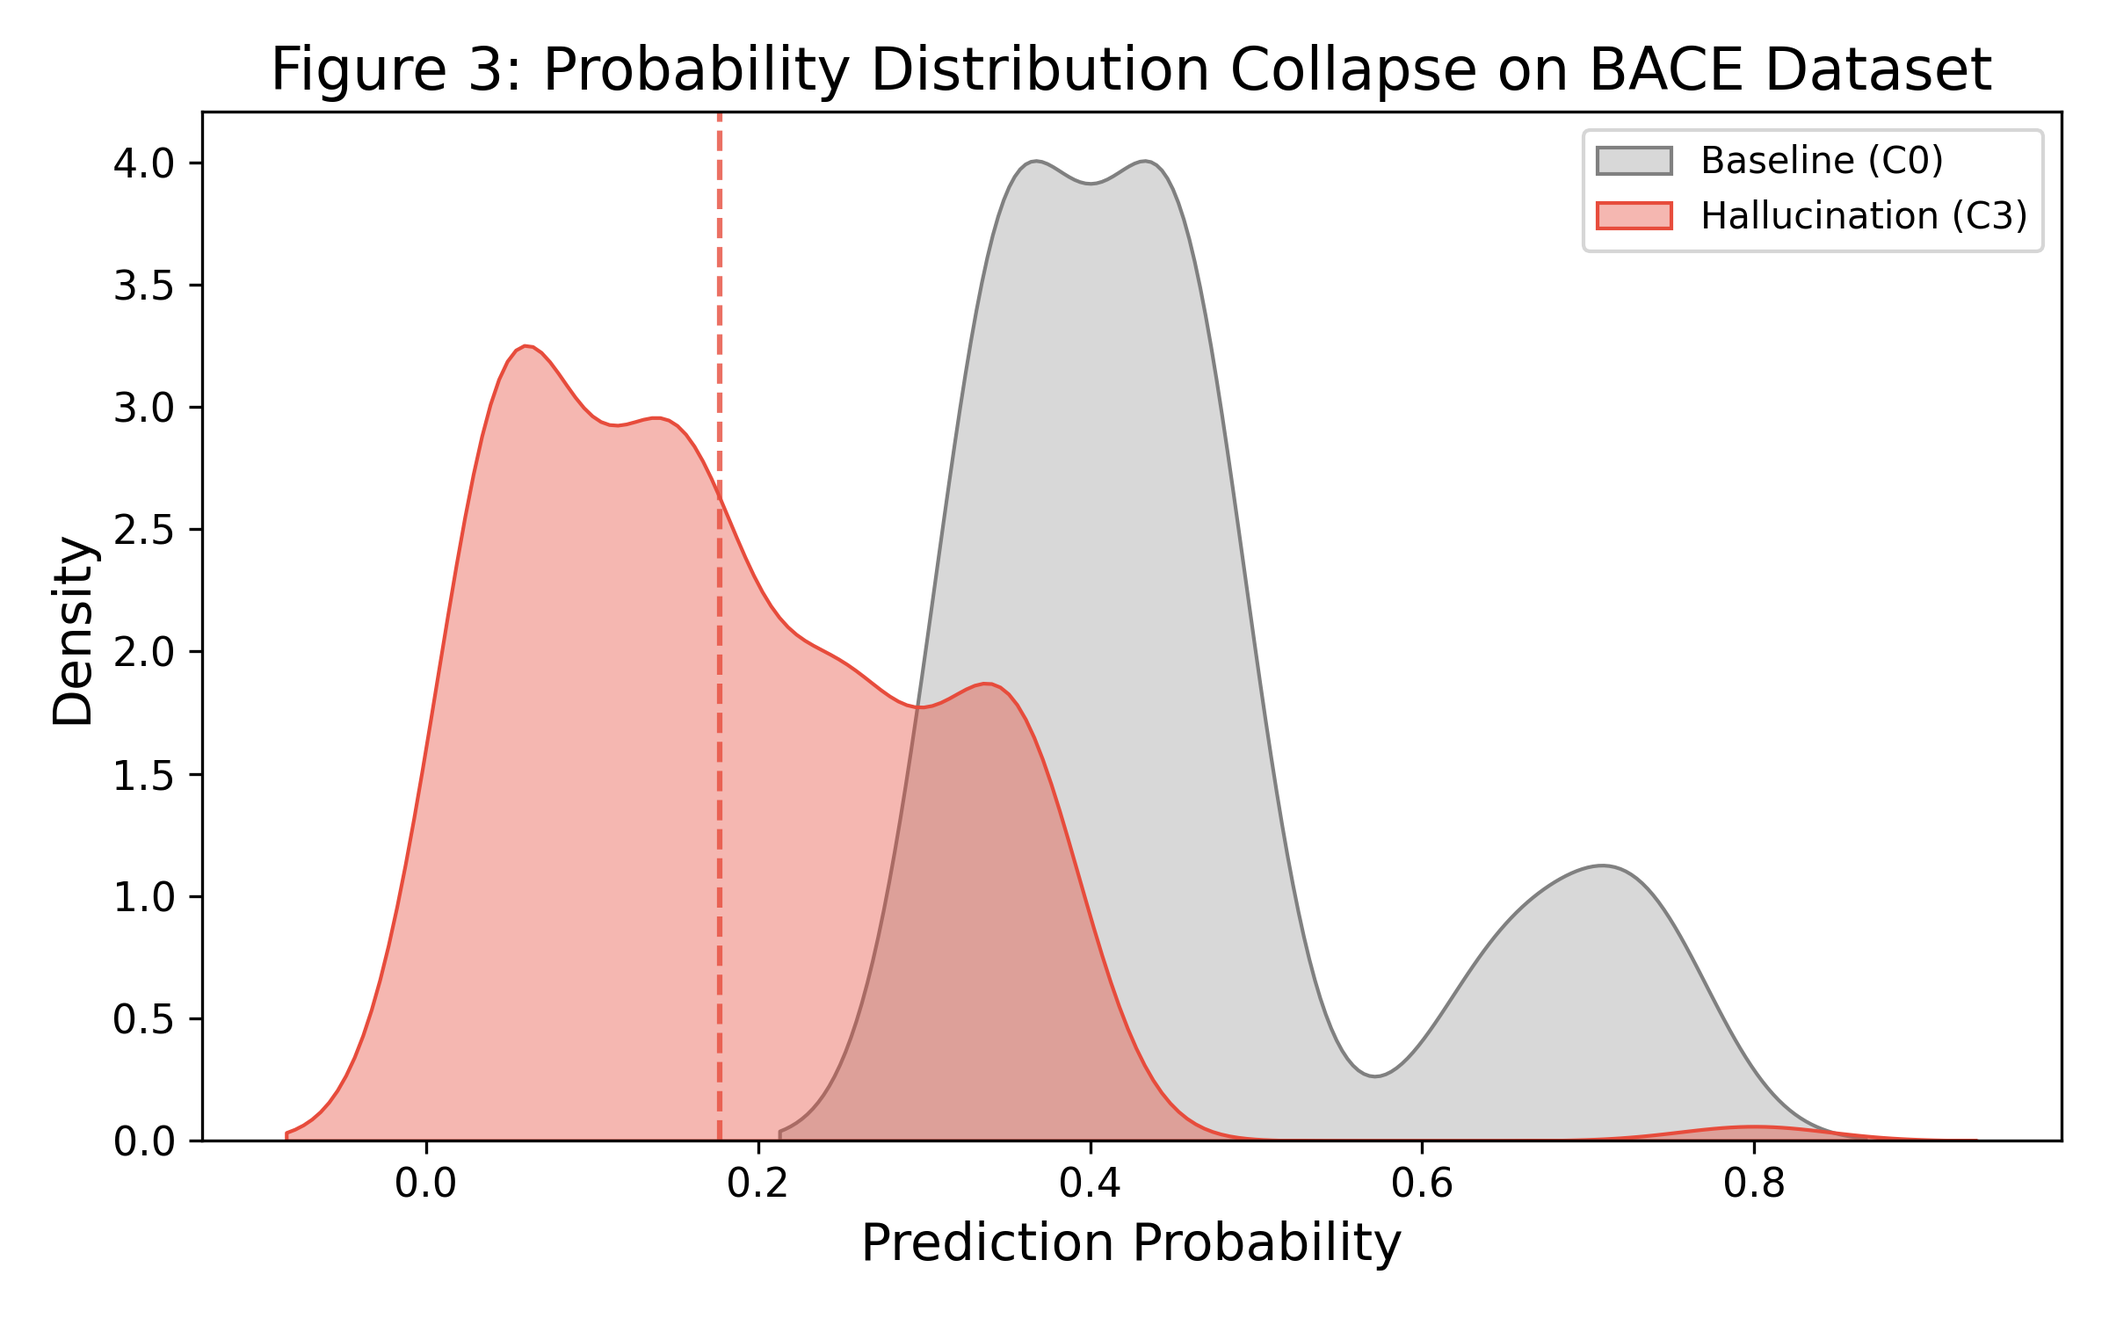
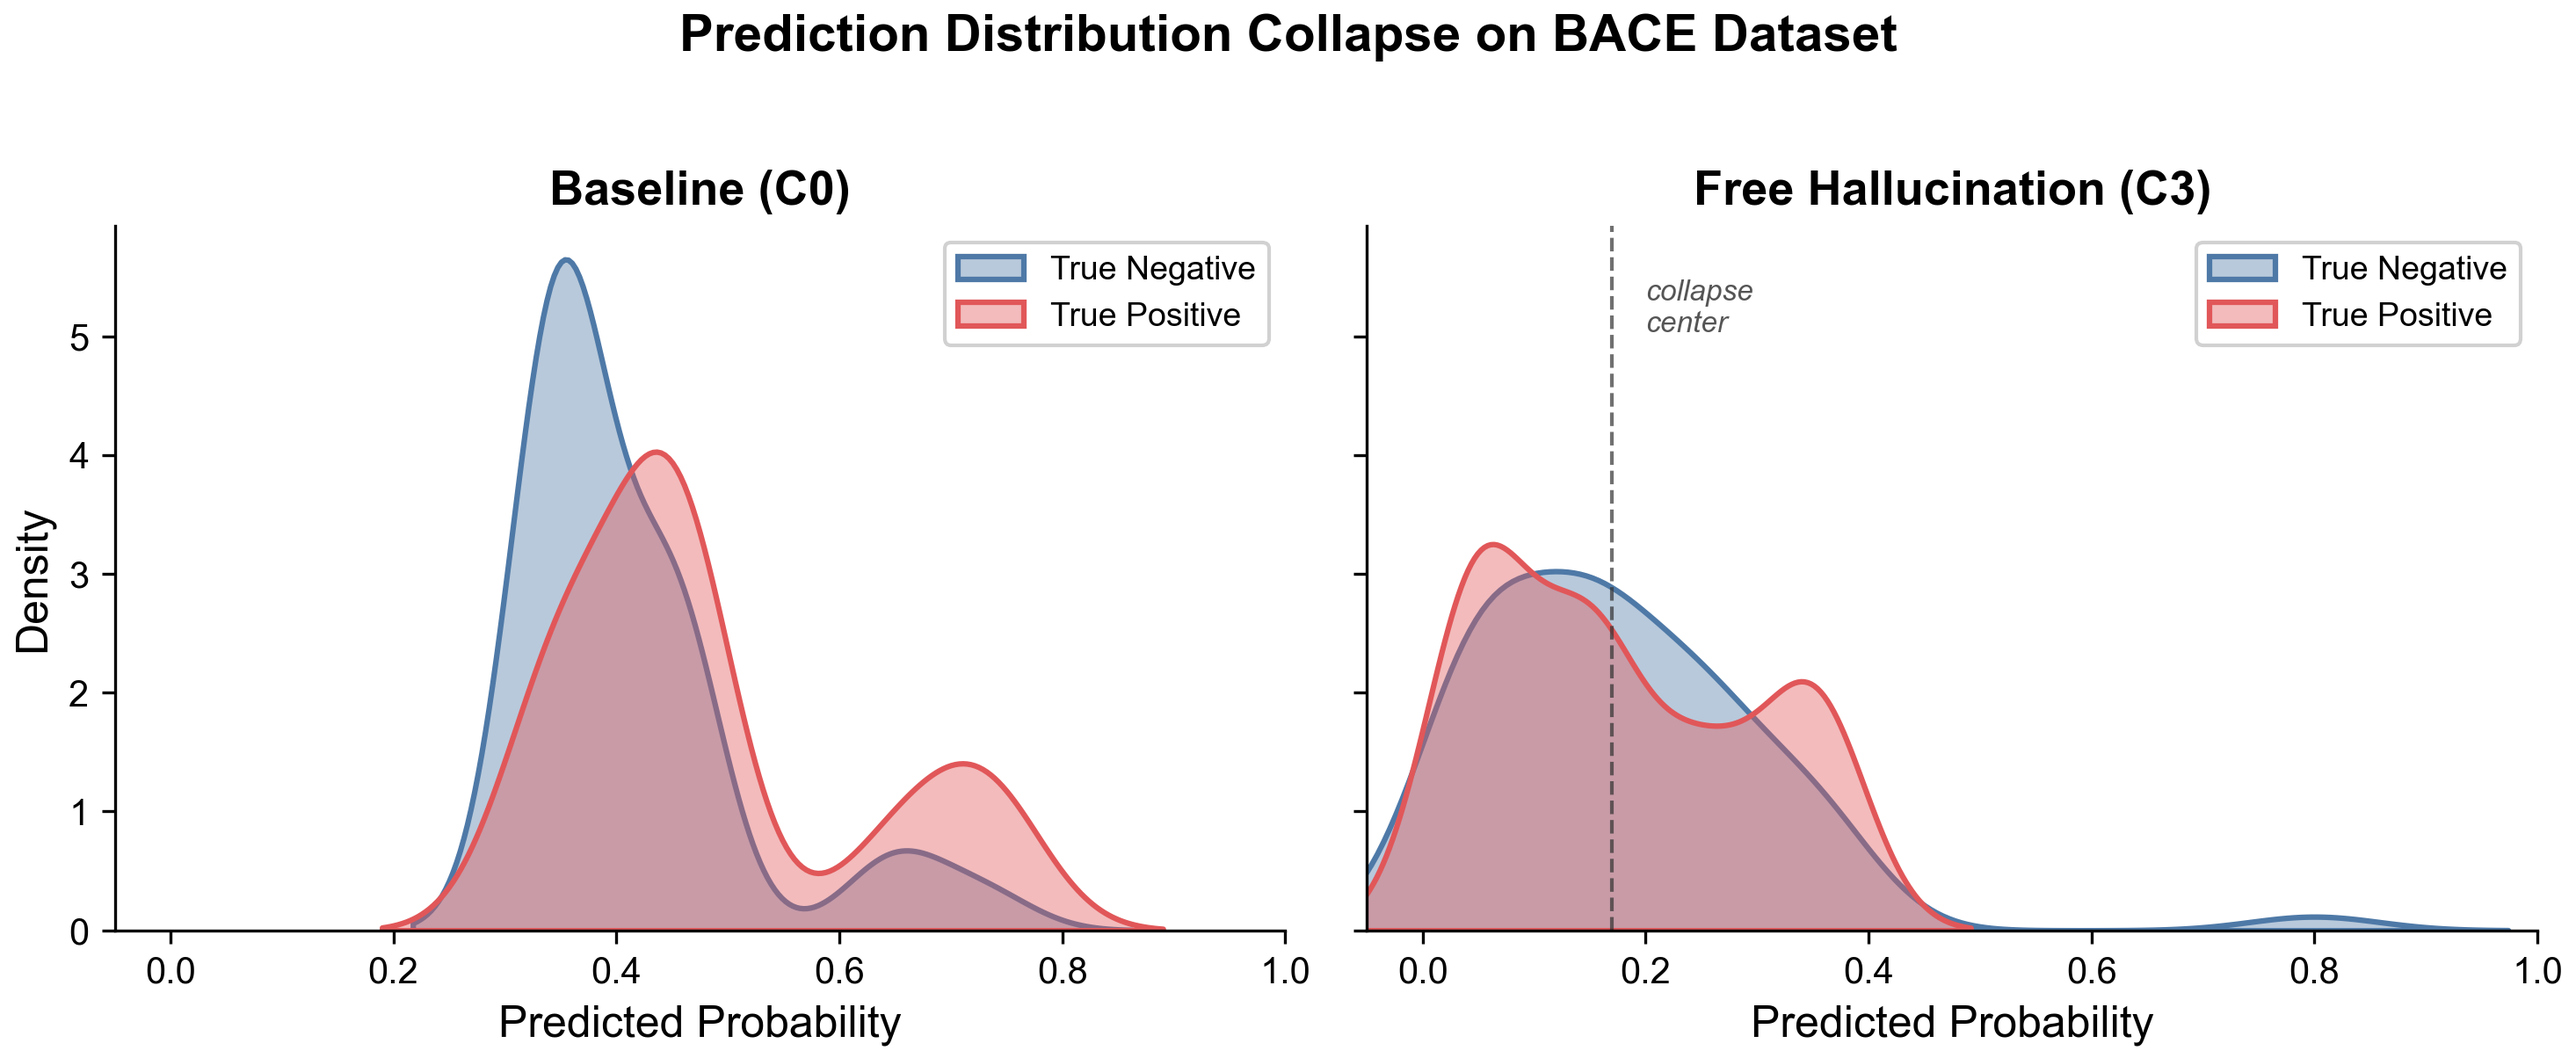
feat: publication-grade figures with Q1 design system — horizontal bars, bootstrap CIs, semantic colors, dual-panel collapse, no pie charts

diff --git a/src/publication_figures.py b/src/publication_figures.py
@@ -1,0 +1,365 @@
+"""
+Publication-grade figure generator for Q1 journal submission.
+Design principles:
+  - Consistent color palette with semantic grouping
+  - Human-readable labels (no code names)
+  - Clean typography (no default matplotlib fonts)
+  - Despined axes, minimal chartjunk
+  - 300 DPI, tight bounding boxes
+  - Horizontal bar chart for Figure 1 (easier to read condition names)
+  - Bar chart replaces pie chart for Figure 2 (pie charts are unprofessional)
+"""
+
+import pandas as pd
+import numpy as np
+import matplotlib.pyplot as plt
+import matplotlib.ticker as mticker
+import seaborn as sns
+import os
+import json
+from sklearn.metrics import roc_auc_score
+from pathlib import Path
+
+# ============================================================
+# DESIGN SYSTEM
+# ============================================================
+
+# Use a professional serif-compatible font
+plt.rcParams.update({
+    'font.family': 'sans-serif',
+    'font.sans-serif': ['Arial', 'Helvetica', 'DejaVu Sans'],
+    'font.size': 11,
+    'axes.titlesize': 13,
+    'axes.labelsize': 12,
+    'xtick.labelsize': 10,
+    'ytick.labelsize': 10,
+    'legend.fontsize': 10,
+    'figure.dpi': 300,
+    'savefig.dpi': 300,
+    'savefig.bbox': 'tight',
+    'savefig.pad_inches': 0.05,
+    'axes.spines.top': False,
+    'axes.spines.right': False,
+    'axes.linewidth': 0.8,
+    'xtick.major.width': 0.8,
+    'ytick.major.width': 0.8,
+})
+
+# Semantic color palette — grouped by condition type
+COLORS = {
+    # Baselines (cool grays)
+    'C0': '#8c8c8c',
+    'C1': '#b0b0b0',
+    # Stylistic controls (blues)
+    'C2': '#4e79a7',
+    'C2b': '#76b7b2',
+    # Hallucinations (warm reds/oranges — the "interesting" conditions)
+    'C3': '#f28e2b',
+    'C4a': '#e15759',
+    'C4b': '#ff9d9a',
+    'C4c': '#d4723c',
+    # Semantic control (dark)
+    'C5': '#59a14f',
+}
+
+# Human-readable labels
+LABELS = {
+    'C0_pure': 'C0: Baseline\n(SMILES only)',
+    'C1_factual': 'C1: Factual\n(RDKit)',
+    'C2_chempriming': 'C2: Chem.\nPriming',
+    'C2b_pure_gibberish': 'C2b: Pure\nGibberish',
+    'C3_hallu_free': 'C3: Free\nHallucination',
+    'C4a_hallu_sp': 'C4a: Structural\nPhantom',
+    'C4b_hallu_pi': 'C4b: Property\nInversion',
+    'C4c_hallu_mf': 'C4c: Mechanism\nFabrication',
+    'C5_shuffled': 'C5: Shuffled\n(Semantic Ctrl)',
+}
+
+SHORT_LABELS = {
+    'C0_pure': 'C0',
+    'C1_factual': 'C1',
+    'C2_chempriming': 'C2',
+    'C2b_pure_gibberish': 'C2b',
+    'C3_hallu_free': 'C3',
+    'C4a_hallu_sp': 'C4a',
+    'C4b_hallu_pi': 'C4b',
+    'C4c_hallu_mf': 'C4c',
+    'C5_shuffled': 'C5',
+}
+
+COLOR_LIST = [COLORS['C0'], COLORS['C1'], COLORS['C2'], COLORS['C2b'],
+              COLORS['C3'], COLORS['C4a'], COLORS['C4b'], COLORS['C4c'], COLORS['C5']]
+
+CONDITIONS = ['C0_pure', 'C1_factual', 'C2_chempriming', 'C2b_pure_gibberish',
+              'C3_hallu_free', 'C4a_hallu_sp', 'C4b_hallu_pi', 'C4c_hallu_mf', 'C5_shuffled']
+
+OUT_DIR = Path('hallucination-paper-overleaf/figures')
+
+def load_data(checkpoint_file: str):
+    with open(checkpoint_file, 'r') as f:
+        ckpt = json.load(f)
+    results_list = [ckpt["results"][str(i)] for i in range(ckpt["metadata"]["total_molecules"])]
+    return pd.DataFrame(results_list)
+
+
+# ============================================================
+# FIGURE 1: Performance Comparison (Horizontal Bar + CI)
+# ============================================================
+def figure1_performance(df):
+    """Horizontal bar chart with bootstrap 95% CI error bars."""
+    labels_arr = np.array(df['label'])
+    
+    aucs = []
+    ci_lowers = []
+    ci_uppers = []
+    rng = np.random.RandomState(42)
+    
+    for cond in CONDITIONS:
+        preds = np.array(df[cond])
+        auc = roc_auc_score(labels_arr, preds)
+        
+        # Bootstrap CI
+        boot_aucs = []
+        for _ in range(1000):
+            idx = rng.randint(0, len(labels_arr), len(labels_arr))
+            if len(np.unique(labels_arr[idx])) < 2:
+                continue
+            boot_aucs.append(roc_auc_score(labels_arr[idx], preds[idx]))
+        boot_aucs = np.array(boot_aucs)
+        
+        aucs.append(auc)
+        ci_lowers.append(auc - np.percentile(boot_aucs, 2.5))
+        ci_uppers.append(np.percentile(boot_aucs, 97.5) - auc)
+    
+    # Sort by AUC for visual clarity
+    order = np.argsort(aucs)
+    
+    fig, ax = plt.subplots(figsize=(7, 5))
+    
+    y_pos = np.arange(len(CONDITIONS))
+    sorted_aucs = [aucs[i] for i in order]
+    sorted_colors = [COLOR_LIST[i] for i in order]
+    sorted_labels = [LABELS[CONDITIONS[i]].replace('\n', ' ') for i in order]
+    sorted_ci = np.array([[ci_lowers[i] for i in order], [ci_uppers[i] for i in order]])
+    
+    bars = ax.barh(y_pos, sorted_aucs, xerr=sorted_ci, 
+                   color=sorted_colors, edgecolor='white', linewidth=0.5,
+                   error_kw={'linewidth': 1.0, 'capsize': 3, 'capthick': 1.0, 'color': '#333333'},
+                   height=0.7, zorder=3)
+    
+    # Baseline reference line
+    baseline_auc = aucs[0]  # C0
+    ax.axvline(x=baseline_auc, color='#555555', linestyle='--', linewidth=1.0, 
+               zorder=2, alpha=0.7, label=f'Baseline C0 ({baseline_auc:.3f})')
+    
+    # Chance level
+    ax.axvline(x=0.5, color='#cccccc', linestyle=':', linewidth=0.8, zorder=1)
+    ax.text(0.502, len(CONDITIONS) - 0.5, 'chance', fontsize=8, color='#999999', va='top')
+    
+    # Value annotations
+    for i, (bar, val) in enumerate(zip(bars, sorted_aucs)):
+        ax.text(val + 0.005, bar.get_y() + bar.get_height()/2, 
+                f'{val:.3f}', va='center', ha='left', fontsize=9, color='#333333')
+    
+    ax.set_yticks(y_pos)
+    ax.set_yticklabels(sorted_labels, fontsize=9)
+    ax.set_xlabel('ROC-AUC Score')
+    ax.set_xlim(0.45, 0.72)
+    ax.set_title('Performance Across Hallucination Conditions (BBBP)', pad=15, fontweight='bold')
+    ax.legend(loc='lower right', framealpha=0.9, edgecolor='#cccccc')
+    
+    # Light grid on x-axis only
+    ax.xaxis.grid(True, linestyle=':', alpha=0.3, zorder=0)
+    ax.set_axisbelow(True)
+    
+    plt.tight_layout()
+    fig.savefig(OUT_DIR / 'figure1_performance_comparison.png')
+    print("✓ Saved figure1_performance_comparison.png")
+    plt.close(fig)
+
+
+# ============================================================
+# FIGURE 2: Taxonomy Distribution (Horizontal Bar, NOT pie)
+# ============================================================
+def figure2_taxonomy(df):
+    """Horizontal bar chart showing taxonomy distribution."""
+    # Extract taxonomy from checkpoint data
+    tax_col = 'taxonomy_free'
+    if tax_col not in df.columns:
+        print("⚠ taxonomy_free column not found, skipping Figure 2")
+        return
+    
+    tax_types = df[tax_col].apply(lambda x: json.loads(x)['dominant_type'] if pd.notna(x) else 'Unknown')
+    tax_counts = tax_types.value_counts()
+    
+    # Define consistent ordering and colors for taxonomy
+    TAX_ORDER = ['CC', 'PI', 'MF', 'SP']
+    TAX_COLORS = {
+        'CC': '#4e79a7',   # Blue - most common
+        'PI': '#e15759',   # Red
+        'MF': '#f28e2b',   # Orange
+        'SP': '#edc948',   # Gold - rarest but most interesting
+    }
+    TAX_FULL = {
+        'CC': 'Contextual\nConfabulation',
+        'PI': 'Property\nInversion', 
+        'MF': 'Mechanism\nFabrication',
+        'SP': 'Structural\nPhantom',
+    }
+    
+    counts = [tax_counts.get(t, 0) for t in TAX_ORDER]
+    total = sum(counts)
+    pcts = [c / total * 100 for c in counts]
+    colors = [TAX_COLORS[t] for t in TAX_ORDER]
+    labels = [f'{TAX_FULL[t]}' for t in TAX_ORDER]
+    
+    fig, ax = plt.subplots(figsize=(6, 3.5))
+    
+    y_pos = np.arange(len(TAX_ORDER))
+    bars = ax.barh(y_pos, pcts, color=colors, edgecolor='white', linewidth=0.5, height=0.6, zorder=3)
+    
+    for i, (bar, pct, count) in enumerate(zip(bars, pcts, counts)):
+        ax.text(pct + 0.8, bar.get_y() + bar.get_height()/2, 
+                f'{pct:.1f}% (n={count})', va='center', ha='left', fontsize=10, color='#333333')
+    
+    ax.set_yticks(y_pos)
+    ax.set_yticklabels(labels, fontsize=10)
+    ax.set_xlabel('Proportion of C3 Hallucinations (%)')
+    ax.set_xlim(0, 100)
+    ax.set_title('Distribution of Hallucination Types\n(Naturally Generated, C3)', pad=15, fontweight='bold')
+    
+    ax.xaxis.grid(True, linestyle=':', alpha=0.3, zorder=0)
+    ax.set_axisbelow(True)
+    
+    plt.tight_layout()
+    fig.savefig(OUT_DIR / 'figure2_taxonomy_distribution.png')
+    print("✓ Saved figure2_taxonomy_distribution.png")
+    plt.close(fig)
+
+
+# ============================================================
+# FIGURE 3: Prediction Collapse (BACE) — Dual KDE
+# ============================================================
+def figure3_collapse(bace_checkpoint: str):
+    """KDE plot showing prediction distribution collapse on BACE."""
+    if not os.path.exists(bace_checkpoint):
+        print(f"⚠ {bace_checkpoint} not found, skipping Figure 3")
+        return
+    
+    df = load_data(bace_checkpoint)
+    
+    fig, axes = plt.subplots(1, 2, figsize=(10, 4), sharey=True)
+    
+    # Left panel: Baseline (C0) — bimodal
+    ax0 = axes[0]
+    c0_neg = df.loc[df['label'] == 0, 'C0_pure']
+    c0_pos = df.loc[df['label'] == 1, 'C0_pure']
+    
+    sns.kdeplot(c0_neg, ax=ax0, fill=True, color='#4e79a7', alpha=0.4, linewidth=1.5, label='True Negative')
+    sns.kdeplot(c0_pos, ax=ax0, fill=True, color='#e15759', alpha=0.4, linewidth=1.5, label='True Positive')
+    ax0.set_title('Baseline (C0)', fontweight='bold')
+    ax0.set_xlabel('Predicted Probability')
+    ax0.set_ylabel('Density')
+    ax0.legend(framealpha=0.9, edgecolor='#cccccc', fontsize=9)
+    ax0.set_xlim(-0.05, 1.0)
+    
+    # Right panel: Hallucination (C3) — collapsed
+    ax1 = axes[1]
+    c3_neg = df.loc[df['label'] == 0, 'C3_hallu_free']
+    c3_pos = df.loc[df['label'] == 1, 'C3_hallu_free']
+    
+    sns.kdeplot(c3_neg, ax=ax1, fill=True, color='#4e79a7', alpha=0.4, linewidth=1.5, label='True Negative')
+    sns.kdeplot(c3_pos, ax=ax1, fill=True, color='#e15759', alpha=0.4, linewidth=1.5, label='True Positive')
+    ax1.axvline(x=0.17, color='#333333', linestyle='--', linewidth=1.0, alpha=0.7)
+    ax1.text(0.20, ax1.get_ylim()[1] * 0.85 if ax1.get_ylim()[1] > 0 else 3.0, 
+             'collapse\ncenter', fontsize=8, color='#555555', style='italic')
+    ax1.set_title('Free Hallucination (C3)', fontweight='bold')
+    ax1.set_xlabel('Predicted Probability')
+    ax1.legend(framealpha=0.9, edgecolor='#cccccc', fontsize=9)
+    ax1.set_xlim(-0.05, 1.0)
+    
+    fig.suptitle('Prediction Distribution Collapse on BACE Dataset', 
+                 fontweight='bold', fontsize=14, y=1.02)
+    
+    plt.tight_layout()
+    fig.savefig(OUT_DIR / 'figure3_negativity_collapse.png')
+    print("✓ Saved figure3_negativity_collapse.png")
+    plt.close(fig)
+
+
+# ============================================================
+# FIGURE 4: Bootstrap Stability (Violin + Strip)
+# ============================================================
+def figure4_bootstrap(df):
+    """Violin plot with strip overlay showing bootstrap AUC distributions."""
+    labels_arr = np.array(df['label'])
+    rng = np.random.RandomState(42)
+    
+    bootstrap_data = []
+    for _ in range(1000):
+        idx = rng.randint(0, len(labels_arr), len(labels_arr))
+        if len(np.unique(labels_arr[idx])) < 2:
+            continue
+        for cond in CONDITIONS:
+            preds = np.array(df[cond])[idx]
+            auc = roc_auc_score(labels_arr[idx], preds)
+            bootstrap_data.append({
+                'Condition': SHORT_LABELS[cond],
+                'AUC': auc,
+            })
+    
+    boot_df = pd.DataFrame(bootstrap_data)
+    
+    fig, ax = plt.subplots(figsize=(8, 5))
+    
+    # Order by median AUC
+    medians = boot_df.groupby('Condition')['AUC'].median()
+    order = medians.sort_values().index.tolist()
+    
+    palette = {SHORT_LABELS[c]: COLOR_LIST[i] for i, c in enumerate(CONDITIONS)}
+    
+    sns.violinplot(data=boot_df, x='Condition', y='AUC', order=order,
+                   palette=palette, inner='quartile', linewidth=0.8,
+                   saturation=0.85, zorder=3, cut=1)
+    
+    # Baseline reference line
+    c0_median = medians['C0']
+    ax.axhline(y=c0_median, color='#555555', linestyle='--', linewidth=1.0,
+               alpha=0.7, zorder=2, label=f'Baseline C0 median ({c0_median:.3f})')
+    
+    # Chance level
+    ax.axhline(y=0.5, color='#cccccc', linestyle=':', linewidth=0.8, zorder=1)
+    
+    ax.set_xlabel('')
+    ax.set_ylabel('ROC-AUC Score')
+    ax.set_title('Bootstrap Distribution of ROC-AUC Scores (BBBP, n=1000)', 
+                 pad=15, fontweight='bold')
+    ax.legend(loc='lower right', framealpha=0.9, edgecolor='#cccccc')
+    
+    ax.yaxis.grid(True, linestyle=':', alpha=0.3, zorder=0)
+    ax.set_axisbelow(True)
+    
+    plt.tight_layout()
+    fig.savefig(OUT_DIR / 'figure4_bootstrap_stability.png')
+    print("✓ Saved figure4_bootstrap_stability.png")
+    plt.close(fig)
+
+
+# ============================================================
+# MAIN
+# ============================================================
+if __name__ == "__main__":
+    bbbp_ckpt = "data/processed/results_bbbp_checkpoint.json"
+    bace_ckpt = "data/processed/results_bace_checkpoint.json"
+    
+    print("Generating publication-grade figures...")
+    print(f"Output directory: {OUT_DIR.resolve()}\n")
+    
+    df_bbbp = load_data(bbbp_ckpt)
+    
+    figure1_performance(df_bbbp)
+    figure2_taxonomy(df_bbbp)
+    figure3_collapse(bace_ckpt)
+    figure4_bootstrap(df_bbbp)
+    
+    print("\n✓ All figures generated successfully.")
